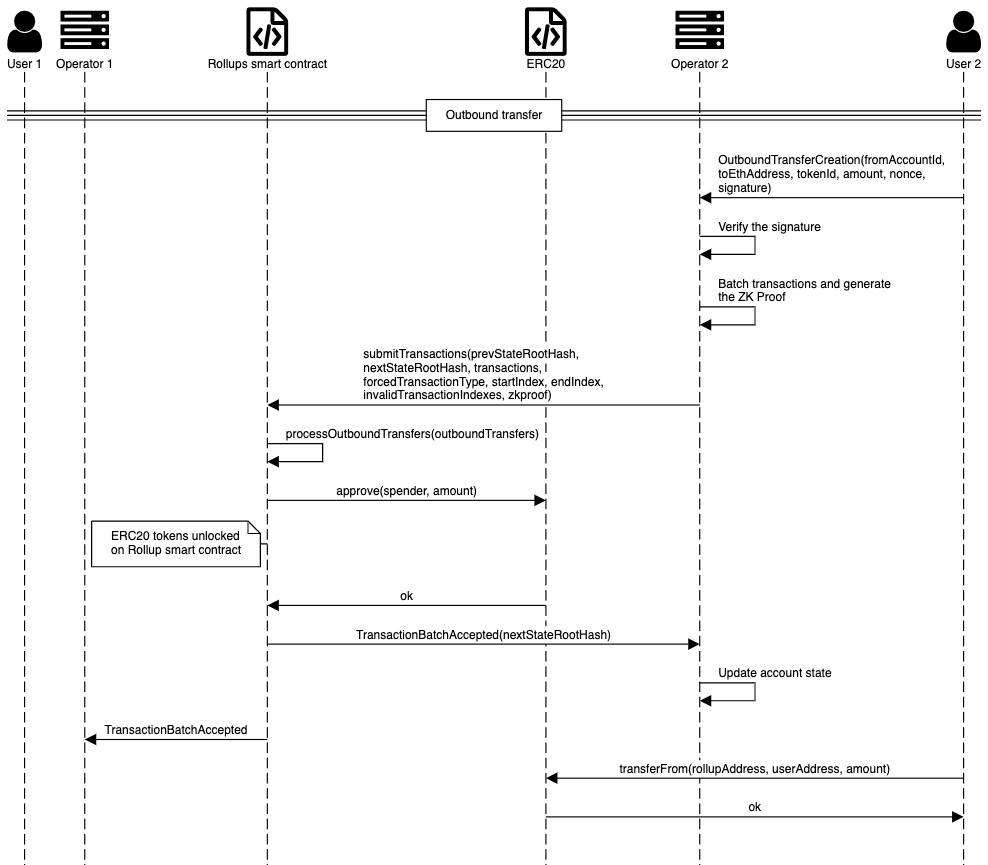
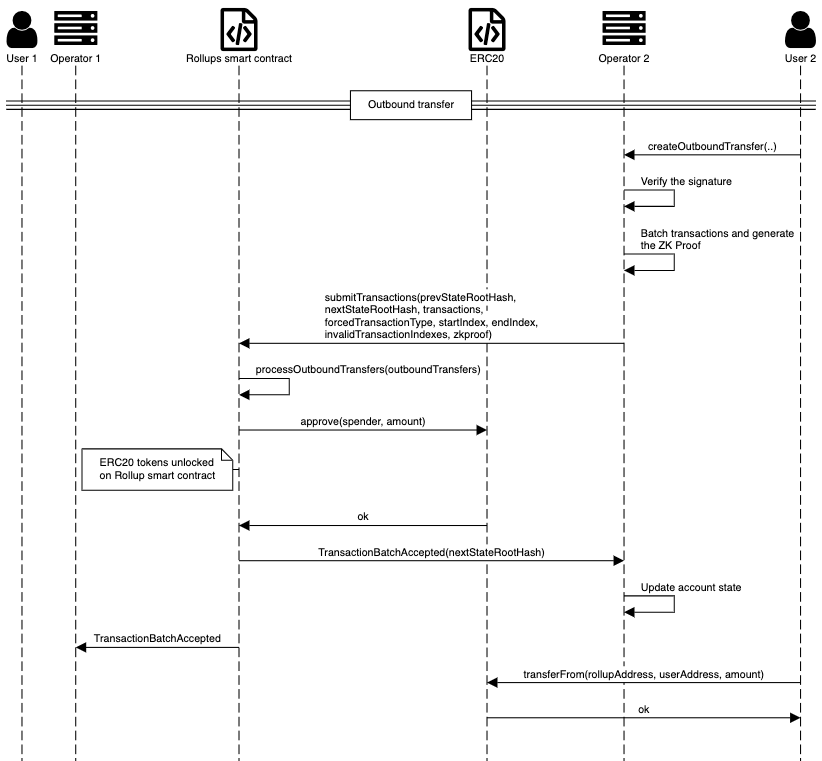
Reorganised content.

diff --git a/docs/Concepts/Workflow-Sequence.md b/docs/Concepts/Workflow-Sequence.md
@@ -7,28 +7,26 @@ Description: Describe the workflow sequence for common rollup operations
 This topic illustrates the event sequence for common rollup operations across the network and the interaction
 between the various components of the rollup.
 
+## Register a token
+
+A rollup administrator can call the rollup smart contract to register an ERC20 token.
+
+![Register a token](../Images/registerToken.png)
+
 ## Create an account
 
 Create an account with the [`createAccount`](../Reference/JSON-RPC.md#createaccount) JSON RPC API.
 
 ![Create an account](../Images/createAccount.png)
 
-## Create a money order
+## Register an inbound transfer
 
-Create a money order with the [`createMoneyOrder`](../Reference/JSON-RPC.md#createmoneyorder) JSON RPC API.
+Inbound transfers are when funds are transferred from an Ethereum address to the rollup. That means funds
+enter the rollup, and existing rollup accounts can later be credited with the external funds.
 
-The money order is encrypted before being sent to the operator.
+An inbound transfer sends funds directly from an Ethereum address to the rollup smart contract
 
-![Create a money order](../Images/CreateMoneyOrder.png)
-
-## Create an outbound transfer
-
-An outbound transfer is when funds are transferred from a rollup account to an Ethereum address.
-
-Operators receive outbound transfer requests, check them for validity, create batches of them and batch
-proofs.
-
-![Create an outbound transfer](../Images/OutboundTransfer.png)
+![Inbound transfers](../Images/InboundTransfer.png)
 
 ## List money orders
 
@@ -53,20 +51,23 @@ The following example redeems a money order from an inbound transfer.
 
 ![Redeem a money order](../Images/RedeemMoneyOrder.png)
 
-## Register an inbound transfer
+## Create a money order
 
-Inbound transfers are when funds are transferred from an Ethereum address to the rollup. That means funds
-enter the rollup, and existing rollup accounts can later be credited with the external funds.
+Create a money order with the [`createMoneyOrder`](../Reference/JSON-RPC.md#createmoneyorder) JSON RPC API.
 
-An inbound transfer sends funds directly from an Ethereum address to the rollup smart contract
+The money order is encrypted before being sent to the operator.
 
-![Inbound transfers](../Images/InboundTransfer.png)
+![Create a money order](../Images/CreateMoneyOrder.png)
 
-## Register a token
+## Create an outbound transfer
 
-A rollup administrator can call the rollup smart contract to register an ERC20 token.
+An outbound transfer is when funds are transferred from a rollup account to an Ethereum address. You can use
+the `createOutboundTransfer` API to create the transfer.
 
-![Register a token](../Images/registerToken.png)
+Operators receive outbound transfer requests, check them for validity, create batches of them and batch
+proofs.
+
+![Create an outbound transfer](../Images/OutboundTransfer.png)
 
 ## Submit a forced outbound transfer
 
